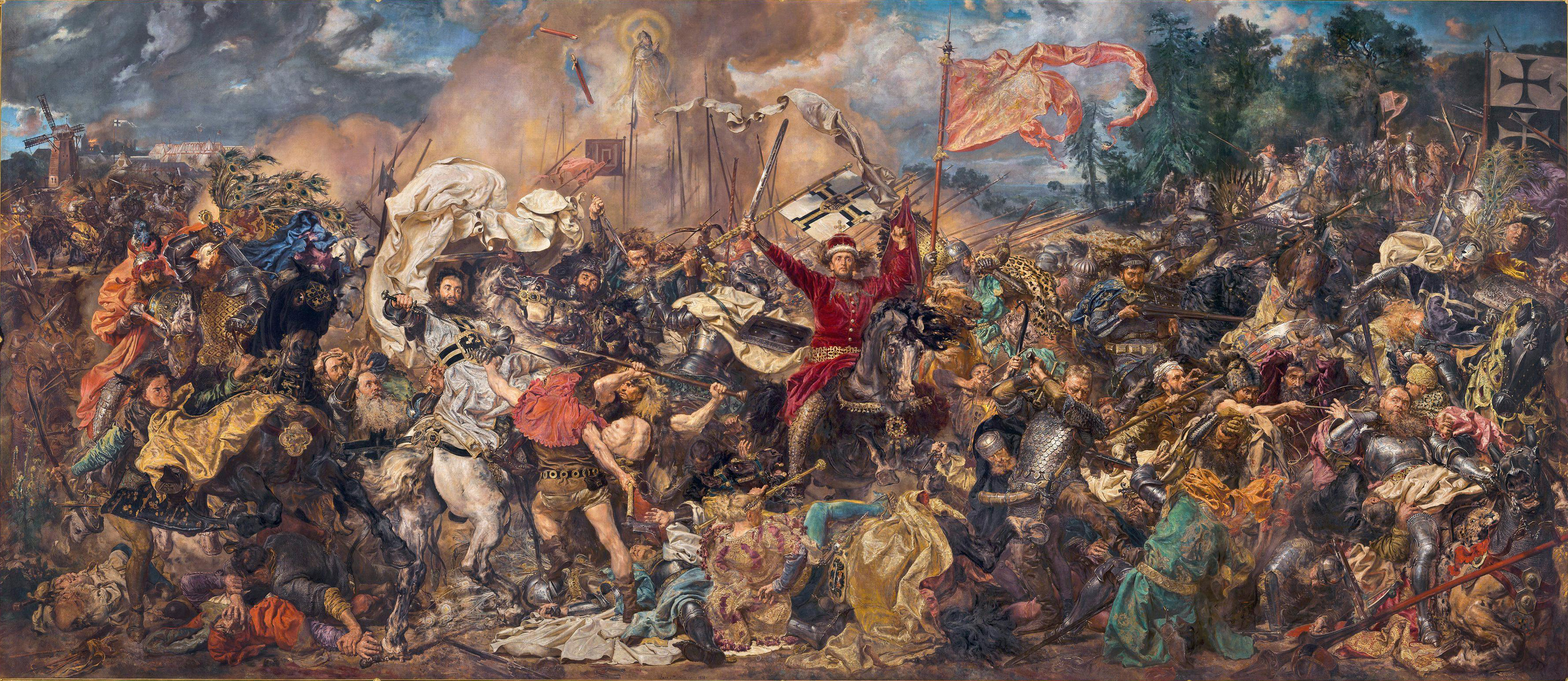
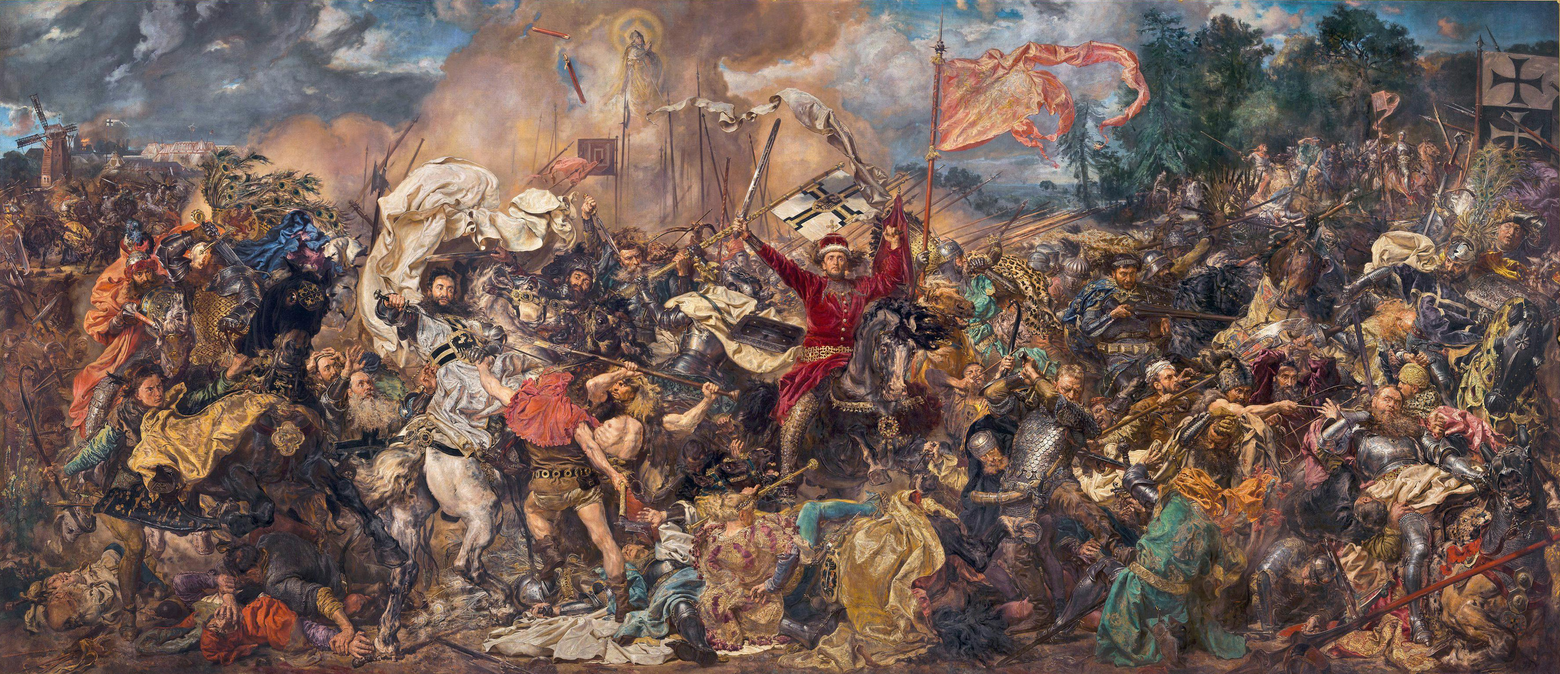
day 2 - mobile elements

diff --git a/site/js/out.js b/site/js/out.js
@@ -113,7 +113,7 @@ exports = module.exports = __webpack_require__(3)(undefined);
 
 
 // module
-exports.push([module.i, ".grunwald {\n  background: url(" + __webpack_require__(4) + ") no-repeat center center fixed;\n  -webkit-background-size: cover;\n  -moz-background-size: cover;\n  -o-background-size: cover;\n  background-size: cover;\n  width: 100vw;\n  height: 100vh;\n  cursor: url(" + __webpack_require__(5) + "), auto;\n  position: relative; }\n\n.popup {\n  position: absolute;\n  background-color: #800020;\n  width: 400px;\n  height: 200px;\n  color: white;\n  font-size: 2em; }\n\n* {\n  padding: 0;\n  margin: 0;\n  font-size: 10px;\n  font-family: 'Playfair Display', serif; }\n", ""]);
+exports.push([module.i, ".grunwald {\n  background: url(" + __webpack_require__(4) + ") no-repeat center center fixed;\n  -webkit-background-size: contain;\n  -moz-background-size: contain;\n  -o-background-size: contain;\n  background-size: contain;\n  width: 100vw;\n  height: 100vh;\n  cursor: url(" + __webpack_require__(5) + "), auto;\n  position: relative;\n  background-color: #800020;\n  background-position: fixed; }\n\n@media (max-width: 760px) {\n  .grunwald {\n    background-size: cover;\n    background-color: #800020;\n    cursor: auto; } }\n\n.popup {\n  position: absolute;\n  background-color: rgba(140, 0, 26, 0.8);\n  width: 35%;\n  padding-bottom: 30px;\n  color: white;\n  padding: 20px;\n  top: 25%;\n  left: 7%;\n  text-align: center; }\n  .popup h1 {\n    font-size: 2.2rem;\n    margin-top: 10px; }\n  .popup #bigger {\n    font-size: 1.5rem;\n    font-weight: bold; }\n  .popup #tekstOne {\n    font-size: 1.2rem;\n    letter-spacing: 0.15rem;\n    margin-bottom: 10px;\n    margin-top: 10px; }\n  .popup #tekstTwo {\n    margin-top: 10px;\n    font-size: 1.2rem;\n    letter-spacing: 0.15rem;\n    margin-bottom: 10px; }\n  .popup #tekstThree {\n    margin-top: 10px;\n    font-size: 1.2rem;\n    letter-spacing: 0.15rem;\n    margin-bottom: 10px; }\n\n@media (max-width: 760px) {\n  .popup {\n    display: none; } }\n\n.popupMobile {\n  display: none; }\n\n@media (max-width: 760px) {\n  .popupMobile {\n    display: block;\n    position: absolute;\n    background: rgba(255, 255, 255, 0.85);\n    width: 75%;\n    padding-bottom: 30px;\n    color: white;\n    padding: 20px;\n    top: 30%;\n    left: 7%;\n    text-align: center; }\n    .popupMobile h1 {\n      font-size: 2.2rem;\n      margin-top: 10px;\n      color: #8c001a; }\n    .popupMobile #biggerMobile {\n      font-size: 1.5rem;\n      font-weight: bold; }\n    .popupMobile #tekstMobile {\n      color: #8c001a;\n      font-size: 1.2rem;\n      letter-spacing: 0.15rem;\n      margin-bottom: 10px;\n      margin-top: 10px; } }\n\n* {\n  padding: 0;\n  margin: 0;\n  font-size: 10px;\n  font-family: 'Playfair Display', Georgia, Garamond, Times, serif; }\n", ""]);
 
 // exports
 

diff --git a/site/index.html b/site/index.html
@@ -5,16 +5,23 @@
     <meta charset="utf-8">
     <link href="https://fonts.googleapis.com/css?family=Playfair+Display" rel="stylesheet">
     <meta name="viewport" content="width=device-width, initial-scale=1.0">
-    <title>Grunwald 1.0</title>
+    <title>Grunwald 1.0 - Who is Who</title>
 </head>
 
 <body>
     <div class='grunwald'>
         <div class='popup'>
-          <h1>Lorem ipsum dolor</h1>
-          <p>Lorem ipsum dolor sit amet, consectetur adipiscing elit. Pellentesque finibus ipsum eu egestas finibus. Suspendisse condimentum condimentum turpis, laoreet venenatis lacus bibendum ac. Nullam efficitur velit at mauris venenatis vehicula. Ut pharetra nunc massa, eu dapibus nunc ullamcorper sit amet. Nunc eu dui maximus, fringilla nibh eget, pharetra ex. Etiam imperdiet turpis et urna volutpat pulvinar.</p>
-
+          <div id='next'></div>
+          <h1>Bitwa pod Grunwaldem - Who is Who</h1>
+          <p id='tekstOne'><span id="bigger">15 lipca 1410</span> na polach pod Grunwaldem stczono jedną z najważniejszych bitew w historii średniowiecznej Europy. Siły zakonu krzyżackiego pod dowództwem wielkiego mistrza Ulricha von Jungingena starły się z połączonymi siłami polskio-litewskimi pod wodzą króla Polski Władysława II Jagiełły i wielkiego księcia litewskiego Witolda.</p>
+          <p id='tekstTwo'><br><span id="bigger">365 lat póżniej</span> najwybitniejszy polski malarz rozpoczął prace nad monumentalnym dziełem ukazujacym zacietą walkę w momencie gdy szala zwycięstwa zaczęła przechylać sić na stronę polsko-litewską.</p>
+          <p id='tekstThree'><br><span id="bigger">Tu i Teraz</span> poznaj i usłysz tę wielką chwilę naszej historii.</p>
         </div>
+        <div class='popupMobile'>
+          <h1>Bitwa pod Grunwaldem - Who is Who</h1>
+          <p id='tekstMobile'><span id="biggerMobile">Drogi użytkowniku urządzenia mobilnego</span> aby w pełni korzystać z aplikacji <span id="biggerMobile">Bitwa pod Grunwaldem - Who is Who</span> zapraszam do uruchomienia jej na komputerze. W ramach rozgrzewki przed poznawaniem jednej z najważniejszych bitew w historii średniowniecznej Europy mam dla Ciebie quiz. <br><span id="biggerMobile">Zaczynamy?</span></p>
+
+
     </div>
     <script src="js/out.js"></script>
 </body>

diff --git a/site/sass/popup.scss b/site/sass/popup.scss
@@ -1,8 +1,49 @@
 .popup {
     position: absolute;
-    background-color: #800020;
-    width: 400px;
-    height: 200px;
+    background-color: rgba(140, 0, 26, 0.8);
+    width: 35%;
+    padding-bottom: 30px;
     color: white;
-    font-size: 2em;
+    padding: 20px;
+    top: 25%;
+    left: 7%;
+    text-align: center;
+
+      h1 {
+        font-size: 2.2rem;
+        margin-top: 10px;
+      }
+
+      #bigger {
+        font-size: 1.5rem;
+        font-weight: bold;
+      }
+
+      #tekstOne {
+        font-size: 1.2rem;
+        letter-spacing: 0.15rem;
+        margin-bottom: 10px;
+        margin-top: 10px;
+      }
+
+      #tekstTwo {
+        margin-top: 10px;
+        font-size: 1.2rem;
+        letter-spacing: 0.15rem;
+        margin-bottom: 10px;
+      }
+
+      #tekstThree {
+        margin-top: 10px;
+        font-size: 1.2rem;
+        letter-spacing: 0.15rem;
+        margin-bottom: 10px;
+      }
+}
+
+
+@media (max-width: 760px) {
+  .popup {
+    display: none;
+ }
 }

diff --git a/site/sass/popupMobile.scss b/site/sass/popupMobile.scss
@@ -1,0 +1,39 @@
+.popupMobile{
+  display: none;
+}
+
+@media (max-width: 760px) {
+  .popupMobile {
+    display: block;
+    position: absolute;
+    background:rgba(255,255,255, 0.85);
+    width: 75%;
+    padding-bottom: 30px;
+    color: white;
+    padding: 20px;
+    top: 30%;
+    left: 7%;
+    text-align: center;
+
+    h1 {
+      font-size: 2.2rem;
+      margin-top: 10px;
+      color: rgb(140, 0, 26);
+    }
+
+    #biggerMobile {
+      font-size: 1.5rem;
+      font-weight: bold;
+    }
+
+      #tekstMobile{
+
+        color: rgb(140, 0, 26);
+        font-size: 1.2rem;
+        letter-spacing: 0.15rem;
+        margin-bottom: 10px;
+        margin-top: 10px;
+
+      }
+   }
+}

diff --git a/site/sass/grunwald.scss b/site/sass/grunwald.scss
@@ -1,11 +1,21 @@
 .grunwald{
   background: url(../images/bitwa.jpg) no-repeat center center fixed;
-  -webkit-background-size: cover;
-  -moz-background-size: cover;
-  -o-background-size: cover;
-  background-size: cover;
+  -webkit-background-size: contain;
+  -moz-background-size: contain;
+  -o-background-size: contain;
+  background-size: contain;
   width:100vw;
   height:100vh;
   cursor: url(../images/cursor.png), auto;
-  position: relative;;
+  position: relative;
+  background-color: #800020;
+  background-position: fixed;
+}
+
+@media (max-width: 760px) {
+  .grunwald {
+  background-size: cover;
+  background-color: #800020;
+  cursor: auto;
+ }
 }

diff --git a/site/sass/main.scss b/site/sass/main.scss
@@ -1,10 +1,11 @@
 @import 'grunwald';
 @import 'popup';
+@import 'popupMobile';
 
 
 * {
     padding: 0;
     margin: 0;
     font-size: 10px;
-    font-family: 'Playfair Display', serif;
+    font-family: 'Playfair Display', Georgia, Garamond, Times, serif;
 }
